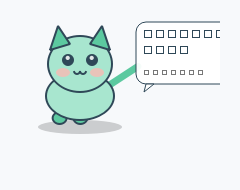
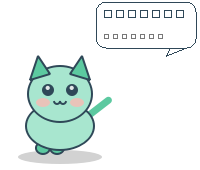
fix(q4): 气泡与猫分层布局，不再遮挡脸部
- 窗口加高为 200x170：顶部 50px 为气泡预留区，猫整体下移 50px
- sprite.draw 只画猫；draw_bubble 独立公开方法，按窗口总宽右对齐
- 气泡尾巴指向右下方的猫；重新生成 litepet_preview.png

Changed region(s): [[0.09, 0.0294, 0.96, 0.9706], [0.51, 0.0, 0.96, 0.0294], [0.96, 0.0294, 0.99, 0.2647]]

diff --git a/src/q4_litepet/litepet/sprite.py b/src/q4_litepet/litepet/sprite.py
@@ -47,8 +47,8 @@ class CatSprite:
     # ------------------------------------------------------------ 主绘制
 
     def draw(self, p: QPainter, *, walk_phase: float = 0.0, blink: float = 0.0,
-             sleepy: bool = False, facing_right: bool = True,
-             bubble: str = "", mood: str = "") -> None:
+             sleepy: bool = False, facing_right: bool = True) -> None:
+        """只画猫。气泡由 draw_bubble 单独画在窗口顶部预留区，两者不重叠。"""
         p.setRenderHint(QPainter.RenderHint.Antialiasing, True)
 
         line = QPen(QColor(self.theme["line"]))
@@ -67,9 +67,6 @@ class CatSprite:
 
         if sleepy:
             self._draw_zzz(p)
-
-        if bubble:
-            self._draw_bubble(p, bubble, mood)
 
     # ------------------------------------------------------------ 各部件
 
@@ -176,7 +173,13 @@ class CatSprite:
 
     # ------------------------------------------------------------ 对话气泡
 
-    def _draw_bubble(self, p: QPainter, text: str, mood: str) -> None:
+    def draw_bubble(self, p: QPainter, text: str, mood: str,
+                    area_w: int) -> None:
+        """在窗口顶部预留区画对话气泡。
+
+        气泡与猫分层：窗口顶部留出一条独立区域给气泡，猫画在下方，
+        两者互不遮挡。area_w 是窗口总宽（气泡右对齐到窗口右缘）。
+        """
         font = QFont()
         font.setPointSize(9)
         p.setFont(font)
@@ -192,9 +195,8 @@ class CatSprite:
             width = max(width, small_fm.horizontalAdvance("心情：" + mood) + pad * 2)
         height = line_height * len(lines) + pad * 2 + (14 if mood else 0)
 
-        # 气泡右对齐到窗口右缘（而不是从右缘向右画，否则整段画出窗口外）
-        x = self.W - 4.0 - width
-        x = max(4.0, x)
+        # 右对齐到窗口右缘，且不超出左缘
+        x = max(4.0, area_w - 4.0 - width)
         y = 2.0
         rect = QRectF(x, y, width, height)
 
@@ -202,11 +204,11 @@ class CatSprite:
         p.setPen(QPen(QColor(self.theme["line"])))
         p.setBrush(QBrush(QColor(255, 255, 255, 240)))
         p.drawRoundedRect(rect, 10, 10)
-        # 气泡小尾巴
+        # 气泡小尾巴，指向右下方的猫
         p.drawPolygon(QPolygonF([
-            QPointF(x + 10, y + height),
-            QPointF(x + 18, y + height),
-            QPointF(x + 8, y + height + 8),
+            QPointF(x + width - 26, y + height),
+            QPointF(x + width - 10, y + height),
+            QPointF(x + width - 30, y + height + 8),
         ]))
 
         p.setPen(QColor(self.theme["line"]))

diff --git a/src/q4_litepet/litepet/window.py b/src/q4_litepet/litepet/window.py
@@ -29,7 +29,8 @@ from .sprite import CatSprite, THEME_LABELS, theme_names
 LOG = logging.getLogger("litepet.window")
 
 WIN_W = 200
-WIN_H = 150
+WIN_H = 170        # 顶部 50px 是气泡预留区，下方 120px 画猫
+CAT_TOP = 50       # 猫的画布在窗口内的纵向偏移（气泡区的下方）
 
 TICK_MS = 40          # 动画帧间隔
 AUTOSAVE_MS = 30_000  # 自动存档间隔
@@ -186,15 +187,20 @@ class PetWindow(QWidget):
         now = datetime.now()
         bubble = self.bubble_text if (self.bubble_until and now < self.bubble_until) else ""
 
+        # 猫画在气泡区下方：整体下移 CAT_TOP，气泡单独画在顶部预留区
+        p.save()
+        p.translate(0, CAT_TOP)
         self.sprite.draw(
             p,
             walk_phase=self.walk_phase,
             blink=self._blink_progress,
             sleepy=self.brain.is_sleepy() and not self.sitting,
             facing_right=self.facing_right,
-            bubble=bubble,
-            mood=self.brain.mood if bubble else "",
         )
+        p.restore()
+
+        if bubble:
+            self.sprite.draw_bubble(p, bubble, self.brain.mood, WIN_W)
         p.end()
 
     # ------------------------------------------------------------ 主循环
